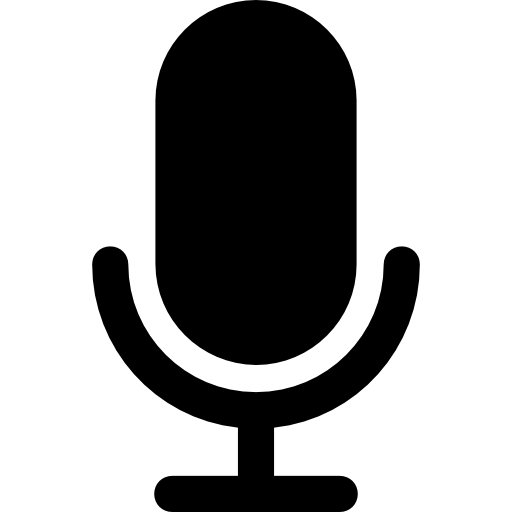
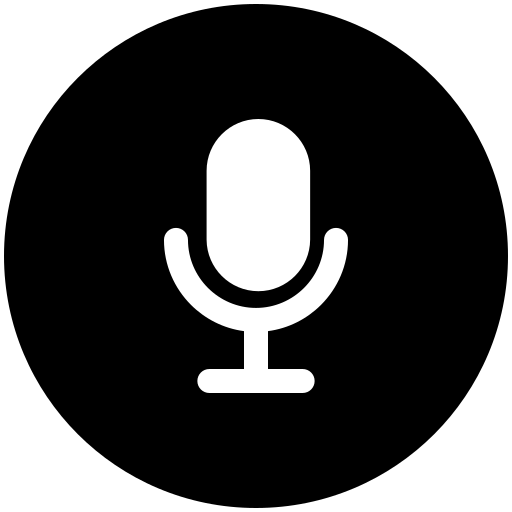
Update microphone button styles

diff --git a/client/script.js b/client/script.js
@@ -152,7 +152,7 @@ function showStopButton() {
 
 // Function to show the microphone button
 function showMicrophoneButton() {
-    var microphoneButton = document.querySelector('.symbol');
+    var microphoneButton = document.querySelector('.microphone-black');
     var selectedRestaurantData = localStorage.getItem("selectedRestaurant");
     if (selectedRestaurantData) {
       microphoneButton.style.display = 'block';
@@ -212,7 +212,7 @@ function hideStopButton() {
 document.addEventListener('DOMContentLoaded', function () {
     var popup = document.getElementById('popup');
     var stopButton = document.querySelector('.stop');
-    var microphoneButton = document.querySelector('.symbol');
+    var microphoneButton = document.querySelector('.microphone-black');
     var waveCanvas = document.querySelector('.wave-canvas');
 
     //var recognition;
@@ -350,7 +350,7 @@ document.addEventListener('DOMContentLoaded', function () {
         }
 
         // Hide the microphone button
-        var symbolButton = document.querySelector('.symbol');
+        var symbolButton = document.querySelector('.microphone-black');
         if (symbolButton) {
             symbolButton.style.display = 'none';
         }

diff --git a/client/styles.css b/client/styles.css
@@ -44,14 +44,16 @@ h3 {
   height: 44px;
 }
 
-.symbol, .symbol svg {
+
+/* microphone button  black*/
+.microphone-black, .microphone-black svg {
   width: 80px;
   height: 80px;
 }
 
 
-/* microphone button  */
-.symbol {
+
+.microphone-black {
   cursor: pointer;
   position: fixed;
   bottom: 50px;
@@ -60,10 +62,37 @@ h3 {
   display: none;
 }
 
-.symbol img {
-  width: 80px;
+.microphone-black img {
+  width: 100px;
   height: auto;
 }
+
+
+
+
+/* microphone button  white*/
+
+.microphone-white, .microphone-white svg {
+  width: 80px;
+  height: 80px;
+}
+
+
+.microphone-white {
+  cursor: pointer;
+  position: fixed;
+  bottom: 50px;
+  left: 50%;
+  transform: translateX(-50%);
+  display: none;
+}
+
+.microphone-white img {
+  width: 100px;
+  height: auto;
+}
+
+
 
 a.button {
   color: #fff;
@@ -98,7 +127,7 @@ a.link:hover {
   fill: #51B96D;
 }
 
-.popup-open .symbol {
+.popup-open .microphone-black {
   display: none;
 }
 
@@ -319,6 +348,14 @@ body.theme-dark .bg-theme {
 
 body.theme-dark .font-22 {
   color: #fff;
+}
+
+body.theme-dark .microphone-white {
+  display: block;
+}
+
+body.theme-dark .microphone-white {
+  display: block;
 }
 
 /* Light theme styles */

diff --git a/client/index.html b/client/index.html
@@ -59,8 +59,12 @@
 
 
 
-  <div class="symbol">
-    <img src="microphone.png" alt="Microphone">
+  <div class="microphone-black">
+    <img src="microphone.png" alt="Microphone black">
+  </div>
+
+  <div class="microphone-white">
+    <img src="microphone_white.png" alt="Microphone white">
   </div>
   
   <div id="popup" class="popup">
